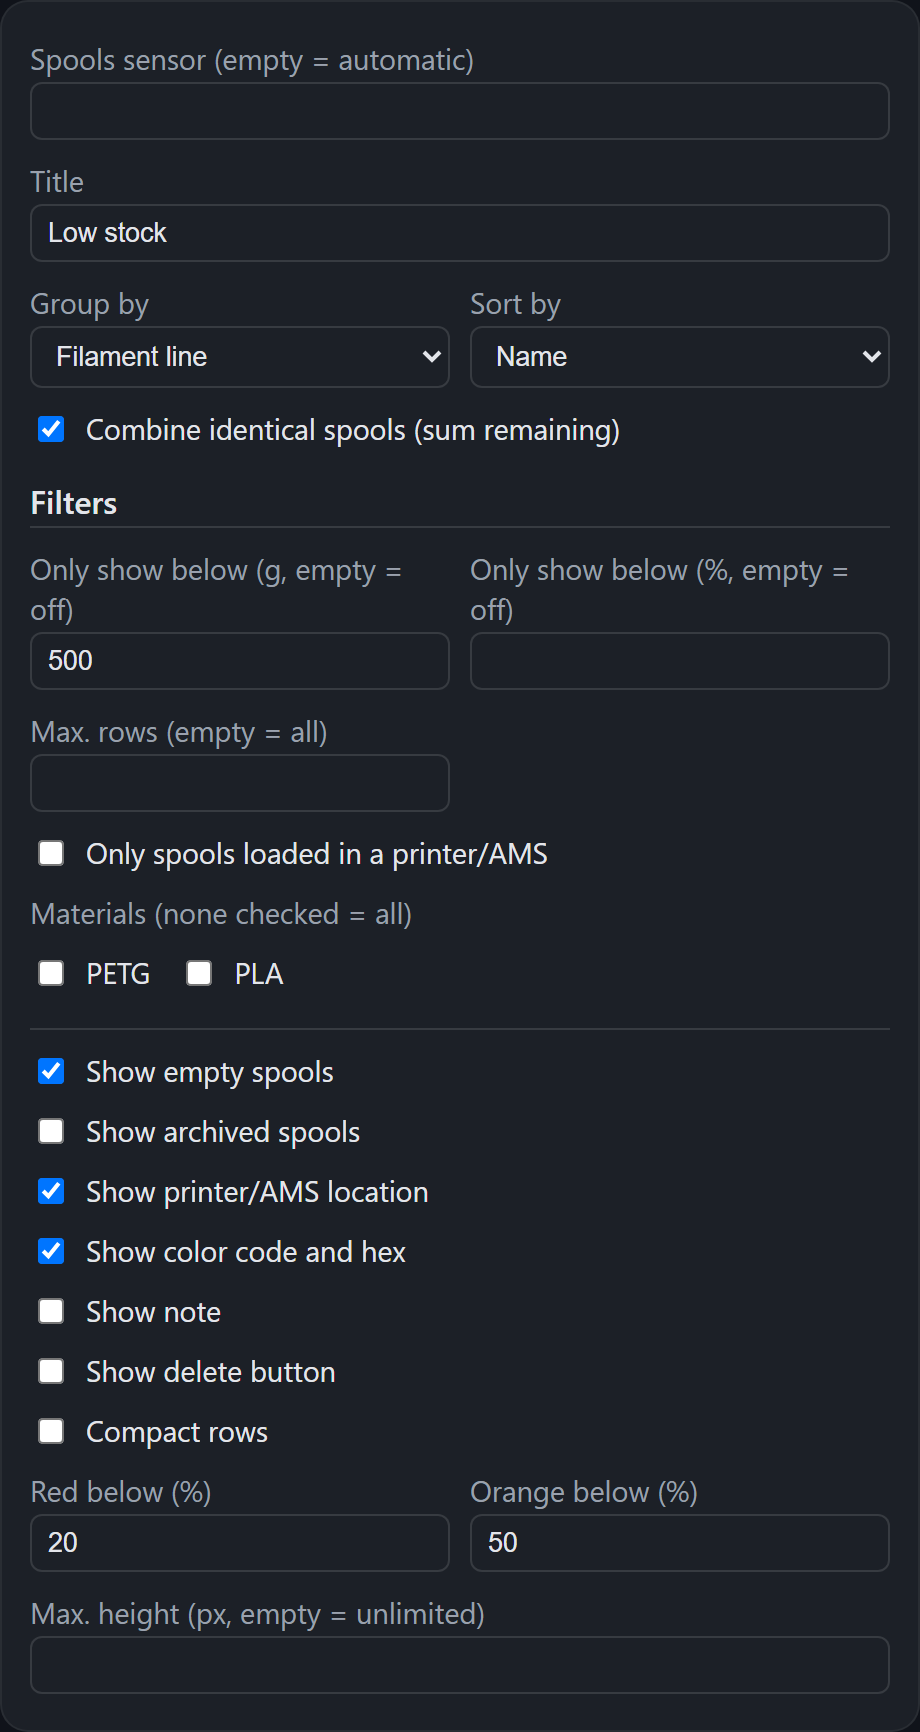
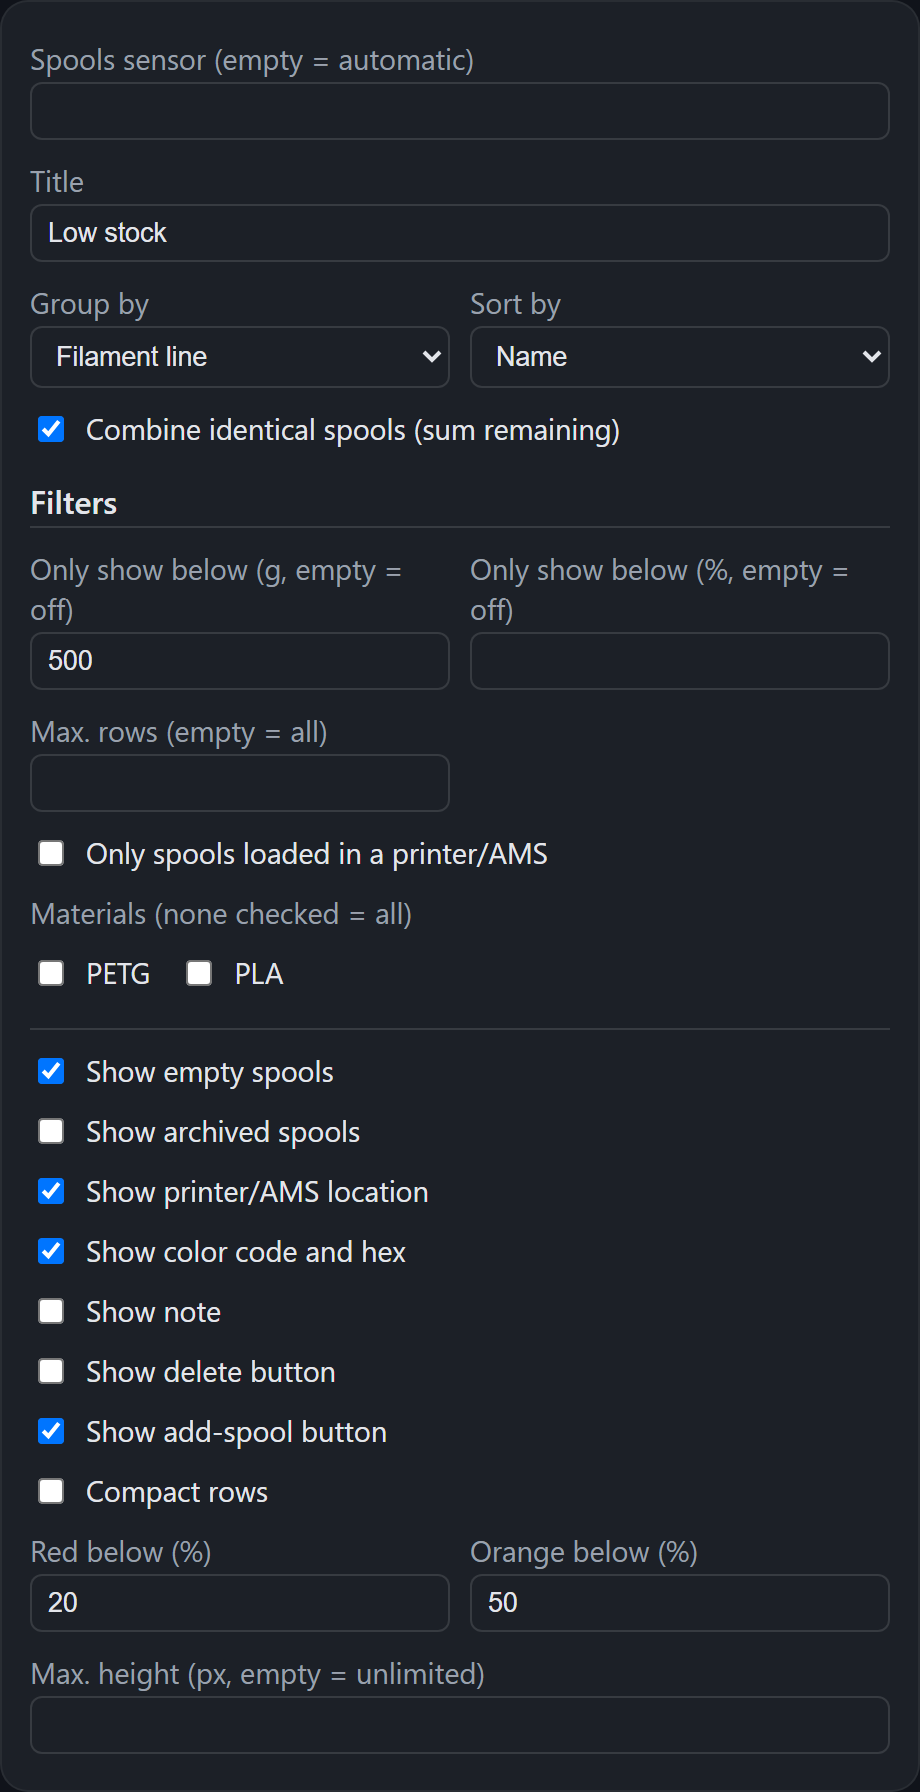
v0.7.0: in-card add-spool dialog; drop RFID roadmap item
- The card gains an Add-spool button (option show_add, default on) that
  opens a Handy-style in-card dialog: vendor and material inputs with
  suggestions from the live library, product line, native color picker,
  spool size and remaining grams. Saves via the create_spool action;
  works for third-party spools that cannot self-register via RFID.
  Re-renders are paused while the dialog is open so typing survives
  coordinator updates.
- README: add-dialog screenshot and option row; RFID/AMS linkage removed
  from the roadmap (the cloud already reports per-spool mount location).

diff --git a/custom_components/bambu_filaments/www/bambu-filaments-card.js b/custom_components/bambu_filaments/www/bambu-filaments-card.js
@@ -11,6 +11,18 @@ const STR = {
     delete_confirm: (n) => `Delete "${n}" from the Bambu cloud library?`,
     archived: "archived",
     title: "Filament",
+    add_btn: "Add spool",
+    d_title: "New spool",
+    d_vendor: "Vendor",
+    d_material: "Material",
+    d_name: "Product line (e.g. PLA Matte)",
+    d_color: "Color",
+    d_total: "Spool size (g)",
+    d_remaining: "Remaining (g)",
+    d_save: "Add to library",
+    d_cancel: "Cancel",
+    d_saving: "Saving…",
+    d_error: "The cloud rejected the spool. Check material and name.",
     // editor
     e_entity: "Spools sensor (empty = automatic)",
     e_title: "Title",
@@ -29,6 +41,7 @@ const STR = {
     e_show_code: "Show color code and hex",
     e_show_note: "Show note",
     e_show_delete: "Show delete button",
+    e_show_add: "Show add-spool button",
     e_compact: "Compact rows",
     e_low: "Red below (%)",
     e_warn: "Orange below (%)",
@@ -41,6 +54,18 @@ const STR = {
     delete_confirm: (n) => `„${n}" aus der Bambu-Cloud-Bibliothek löschen?`,
     archived: "archiviert",
     title: "Filament",
+    add_btn: "Neue Spule anlegen",
+    d_title: "Neue Spule",
+    d_vendor: "Hersteller",
+    d_material: "Material",
+    d_name: "Sorte (z. B. PLA Matte)",
+    d_color: "Farbe",
+    d_total: "Spulengröße (g)",
+    d_remaining: "Restgewicht (g)",
+    d_save: "Zur Bibliothek hinzufügen",
+    d_cancel: "Abbrechen",
+    d_saving: "Speichern…",
+    d_error: "Die Cloud hat die Spule abgelehnt. Material und Sorte prüfen.",
     e_entity: "Spulen-Sensor (leer = automatisch)",
     e_title: "Titel",
     e_group: "Gruppieren nach", g_line: "Filamentlinie", g_material: "Material", g_none: "Keine Gruppierung",
@@ -58,6 +83,7 @@ const STR = {
     e_show_code: "Farbcode und Hex anzeigen",
     e_show_note: "Notiz anzeigen",
     e_show_delete: "Löschen-Button anzeigen",
+    e_show_add: "Neue-Spule-Button anzeigen",
     e_compact: "Kompakte Zeilen",
     e_low: "Rot unter (%)",
     e_warn: "Orange unter (%)",
@@ -70,6 +96,7 @@ const DEFAULTS = {
   sort: "name",
   combine: false,
   only_in_printer: false,
+  show_add: true,
   show_empty: true,
   show_archived: false,
   show_location: true,
@@ -148,6 +175,7 @@ class BambuFilamentsCard extends HTMLElement {
 
   set hass(hass) {
     this._hass = hass;
+    if (this._dialogOpen) return; // don't wipe the form mid-typing
     const entityId = this._config?.entity || findSpoolsEntity(hass);
     const st = entityId ? hass.states[entityId] : null;
     const key = st ? `${entityId}|${st.last_updated}` : "none";
@@ -268,6 +296,7 @@ class BambuFilamentsCard extends HTMLElement {
       }).join("");
     }
 
+    this._lastState = st;
     const scroll = c.max_height ? `style="max-height:${Number(c.max_height)}px;overflow-y:auto"` : "";
     this.shadowRoot.innerHTML = `
       <ha-card>
@@ -276,7 +305,15 @@ class BambuFilamentsCard extends HTMLElement {
           <div class="sum">${t.spools(spools.length)} · ${fmtG(totalG)}</div>
         </div>` : ""}
         <div class="list" ${scroll}>${body}</div>
+        ${c.show_add ? `<div class="addrow"><ha-icon icon="mdi:plus"></ha-icon><span>${t.add_btn}</span></div>` : ""}
+        ${this._dialogOpen ? this._dialogHtml(t, spools) : ""}
       </ha-card>${this._css()}`;
+
+    this.shadowRoot.querySelector(".addrow")?.addEventListener("click", () => {
+      this._dialogOpen = true;
+      this._render(this._lastState);
+    });
+    if (this._dialogOpen) this._wireDialog(t);
 
     this.shadowRoot.querySelectorAll(".ghead").forEach((el) =>
       el.addEventListener("click", () => {
@@ -306,6 +343,82 @@ class BambuFilamentsCard extends HTMLElement {
         });
       })
     );
+  }
+
+  _dialogHtml(t, spools) {
+    const vendors = [...new Set(["Bambu Lab", ...spools.map((s) => s.vendor).filter(Boolean)])];
+    const materials = [...new Set([
+      ...spools.map((s) => s.material).filter(Boolean),
+      "PLA", "PETG", "ABS", "ASA", "TPU", "PC", "PA", "PVA", "PLA-CF", "PETG-CF",
+    ])];
+    const opts = (arr) => arr.map((v) => `<option value="${esc(v)}"></option>`).join("");
+    return `
+      <div class="overlay">
+        <div class="dlg">
+          <div class="dtitle">${t.d_title}</div>
+          <label>${t.d_vendor}
+            <input id="f-vendor" type="text" value="Bambu Lab" list="dl-vendors"/>
+            <datalist id="dl-vendors">${opts(vendors)}</datalist></label>
+          <label>${t.d_material}
+            <input id="f-material" type="text" list="dl-mats" placeholder="PLA"/>
+            <datalist id="dl-mats">${opts(materials)}</datalist></label>
+          <label>${t.d_name}<input id="f-name" type="text" placeholder="PLA Matte"/></label>
+          <label class="colorlab">${t.d_color}<input id="f-color" type="color" value="#00ae42"/></label>
+          <div class="cols2">
+            <label>${t.d_total}<input id="f-total" type="number" min="1" value="1000"/></label>
+            <label>${t.d_remaining}<input id="f-remaining" type="number" min="0" placeholder="1000"/></label>
+          </div>
+          <div class="derr" hidden></div>
+          <div class="dbtns">
+            <button class="dlg-cancel">${t.d_cancel}</button>
+            <button class="dlg-save">${t.d_save}</button>
+          </div>
+        </div>
+      </div>`;
+  }
+
+  _wireDialog(t) {
+    const root = this.shadowRoot;
+    const overlay = root.querySelector(".overlay");
+    const close = () => {
+      this._dialogOpen = false;
+      this._configDirty = true;
+      this._render(this._lastState);
+    };
+    overlay.addEventListener("click", (ev) => { if (ev.target === overlay) close(); });
+    root.querySelector(".dlg-cancel").addEventListener("click", close);
+    root.querySelector(".dlg-save").addEventListener("click", async () => {
+      const val = (id) => root.querySelector(`#${id}`).value.trim();
+      const err = root.querySelector(".derr");
+      const material = val("f-material");
+      const name = val("f-name");
+      if (!material || !name) {
+        err.hidden = false;
+        err.textContent = t.d_error;
+        return;
+      }
+      const total = Number(val("f-total")) || 1000;
+      const data = {
+        vendor: val("f-vendor") || "Bambu Lab",
+        material,
+        name,
+        color: val("f-color"),
+        total_g: total,
+        remaining_g: val("f-remaining") === "" ? total : Number(val("f-remaining")),
+      };
+      const btn = root.querySelector(".dlg-save");
+      btn.disabled = true;
+      btn.textContent = t.d_saving;
+      try {
+        await this._hass.callService("bambu_filaments", "create_spool", data);
+        close();
+      } catch (e) {
+        btn.disabled = false;
+        btn.textContent = t.d_save;
+        err.hidden = false;
+        err.textContent = t.d_error;
+      }
+    });
   }
 
   _row(s, t) {
@@ -385,6 +498,36 @@ class BambuFilamentsCard extends HTMLElement {
       .pct { color:var(--secondary-text-color); font-size:0.8em; }
       .del { --mdc-icon-size:20px; color:var(--secondary-text-color); flex:none; }
       .del:hover { color: var(--error-color, #e74c3c); }
+      .addrow { display:flex; align-items:center; justify-content:center; gap:6px;
+                margin:8px 0 4px; padding:8px; border:1px dashed var(--divider-color);
+                border-radius:8px; color:var(--secondary-text-color); cursor:pointer; }
+      .addrow:hover { color:var(--primary-text-color); border-color:var(--secondary-text-color); }
+      .addrow ha-icon { --mdc-icon-size:18px; }
+      .overlay { position:fixed; inset:0; z-index:9999; background:rgba(0,0,0,.55);
+                 display:flex; align-items:center; justify-content:center; }
+      .dlg { background:var(--card-background-color); border:1px solid var(--divider-color);
+             border-radius:14px; padding:18px; width:min(340px, calc(100vw - 48px));
+             display:flex; flex-direction:column; gap:10px; box-shadow:0 8px 32px rgba(0,0,0,.5); }
+      .dtitle { font-size:1.1em; font-weight:600; }
+      .dlg label { display:flex; flex-direction:column; gap:3px; font-size:0.85em;
+                   color:var(--secondary-text-color); }
+      .dlg label { min-width:0; }
+      .dlg input { box-sizing:border-box; width:100%; }
+      .dlg input[type=text], .dlg input[type=number] {
+        padding:7px 9px; border:1px solid var(--divider-color); border-radius:8px;
+        background:var(--secondary-background-color); color:var(--primary-text-color);
+        font-size:1rem; }
+      .dlg input[type=color] { width:100%; height:38px; padding:2px; border-radius:8px;
+        border:1px solid var(--divider-color); background:var(--secondary-background-color); }
+      .cols2 { display:grid; grid-template-columns:1fr 1fr; gap:10px; }
+      .derr { color:var(--error-color, #e74c3c); font-size:0.85em; }
+      .dbtns { display:flex; justify-content:flex-end; gap:8px; margin-top:4px; }
+      .dbtns button { padding:8px 14px; border-radius:8px; border:none; cursor:pointer;
+        font-size:0.95em; }
+      .dlg-cancel { background:var(--secondary-background-color);
+        color:var(--primary-text-color); }
+      .dlg-save { background:#00ae42; color:#fff; font-weight:600; }
+      .dlg-save:disabled { opacity:.6; }
     </style>`;
   }
 }
@@ -482,6 +625,7 @@ class BambuFilamentsCardEditor extends HTMLElement {
         ${check("show_code", t.e_show_code)}
         ${check("show_note", t.e_show_note)}
         ${check("show_delete", t.e_show_delete)}
+        ${check("show_add", t.e_show_add)}
         ${check("compact", t.e_compact)}
         <div class="cols">
           <label>${t.e_low}<input type="number" min="0" max="100" data-f="low_threshold" value="${c.low_threshold}"/></label>

diff --git a/README.md b/README.md
@@ -131,6 +131,10 @@ show_delete: true
 
 <img src="https://raw.githubusercontent.com/Timmes123/ha-bambu-filaments/main/images/card-loaded.png" width="400" alt="Card filtered to spools loaded in a printer">
 
+**Adding spools without leaving the dashboard** — the card's "Add spool" button opens a small dialog (vendor and material suggestions come from your own library, color via native color picker). Works for third-party spools that can't self-register via RFID:
+
+<img src="https://raw.githubusercontent.com/Timmes123/ha-bambu-filaments/main/images/card-add-dialog.png" width="340" alt="In-card dialog for adding a new spool">
+
 Everything is also configurable in the **visual editor**, including material filter checkboxes generated from your own inventory:
 
 <img src="https://raw.githubusercontent.com/Timmes123/ha-bambu-filaments/main/images/card-editor.png" width="400" alt="Visual card editor">
@@ -155,14 +159,11 @@ Everything is also configurable in the **visual editor**, including material fil
 | `show_code` | `true` | Show Bambu color code and hex |
 | `show_note` | `false` | Show the spool note |
 | `show_delete` | `false` | Trash icon per row (deletes from the cloud after confirmation) |
+| `show_add` | `true` | "Add spool" button that opens an in-card dialog (vendor, material, product line, color picker, weights) — for third-party spools too |
 | `compact` | `false` | Slimmer rows without the meta line |
 | `low_threshold` | `20` | Bar turns red below this % |
 | `warn_threshold` | `50` | Bar turns orange below this % |
 | `max_height` | – | Scroll after this many pixels |
-
-## Roadmap
-
-- Linking library spools to live AMS tray data by RFID.
 
 ## Credits
 
